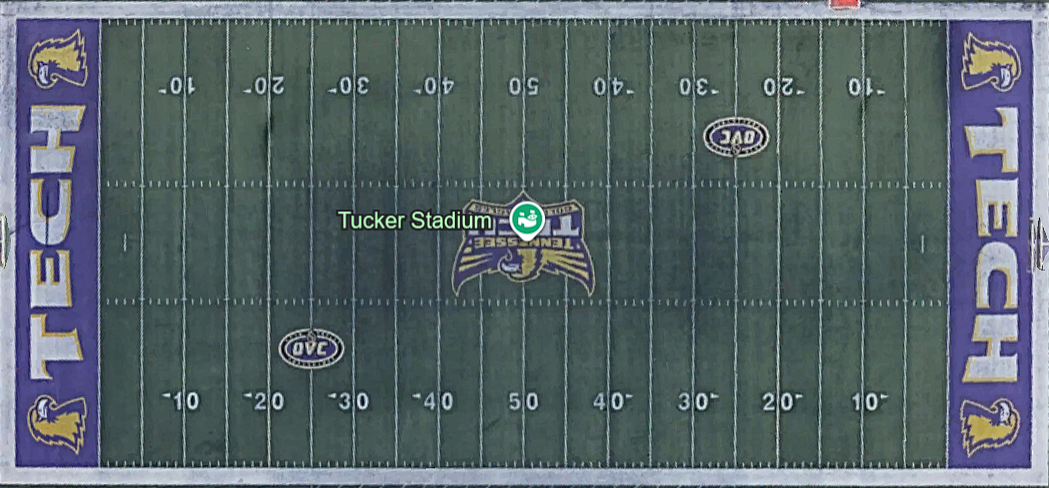
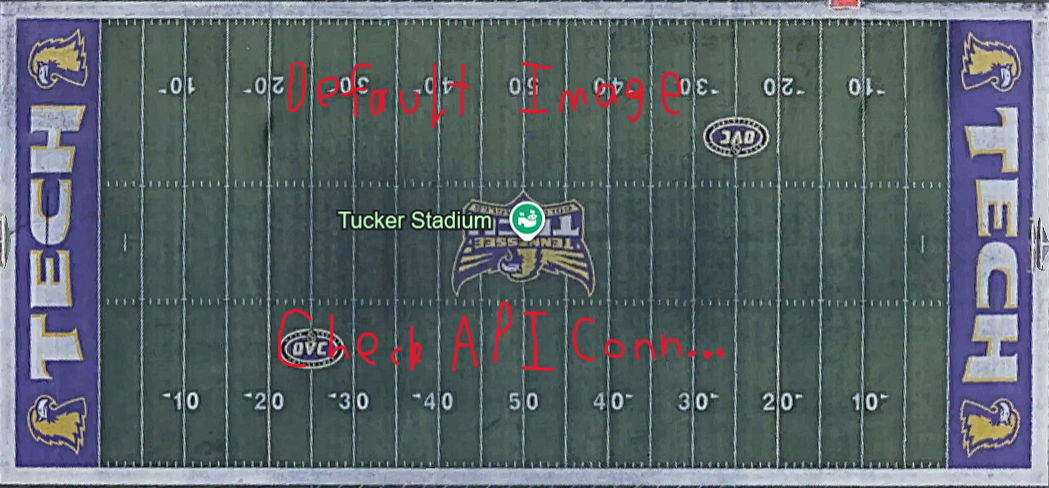
Dynamic background from backend with error handling. Default image added.

diff --git a/Frontend/react/my-app/src/components/GridMap.jsx b/Frontend/react/my-app/src/components/GridMap.jsx
@@ -1,13 +1,38 @@
-import React from "react";
+import React, { useRef, useState, useEffect } from "react";
 
 const GridMap = ({ points = [] }) => {
+  console.log("GridMap component rendered")
+  const [image, setBackgroundImg] = useState(null);
+
+  useEffect(() => {
+    //To test API: curl -o current_image.jpg http://localhost:8765/grid/image
+    const fetchImage = async () => {
+        console.log("Fetching image...")
+        try {
+          console.log("Trying to fetch from API...")
+          const response = await fetch('http://localhost:8765/grid/image'); //get image
+          const blob = await response.blob(); //convert response to a blob
+          const imageUrl = URL.createObjectURL(blob); //create url from the blob
+          setBackgroundImg(imageUrl) //update image var with blob
+        } catch (error) {
+          console.log("Failed to fetch map background from API endpoint:", error)
+          console.log("Defaulting to debug football field.")
+          
+          setBackgroundImg('/imagefrombackend/aerialview.png')
+        }
+      }
+
+    fetchImage();
+  }, []);
+
+  console.log("Current image value:", image);
   return (
     <div
       style={{
         width: "100%",
         height: "100%",
         position: "relative",
-        backgroundImage: "url('/contents/images/footballfield.jpg')",
+        backgroundImage: `url(${image})`,
         backgroundSize: "cover",
         backgroundPosition: "center",
       }}
